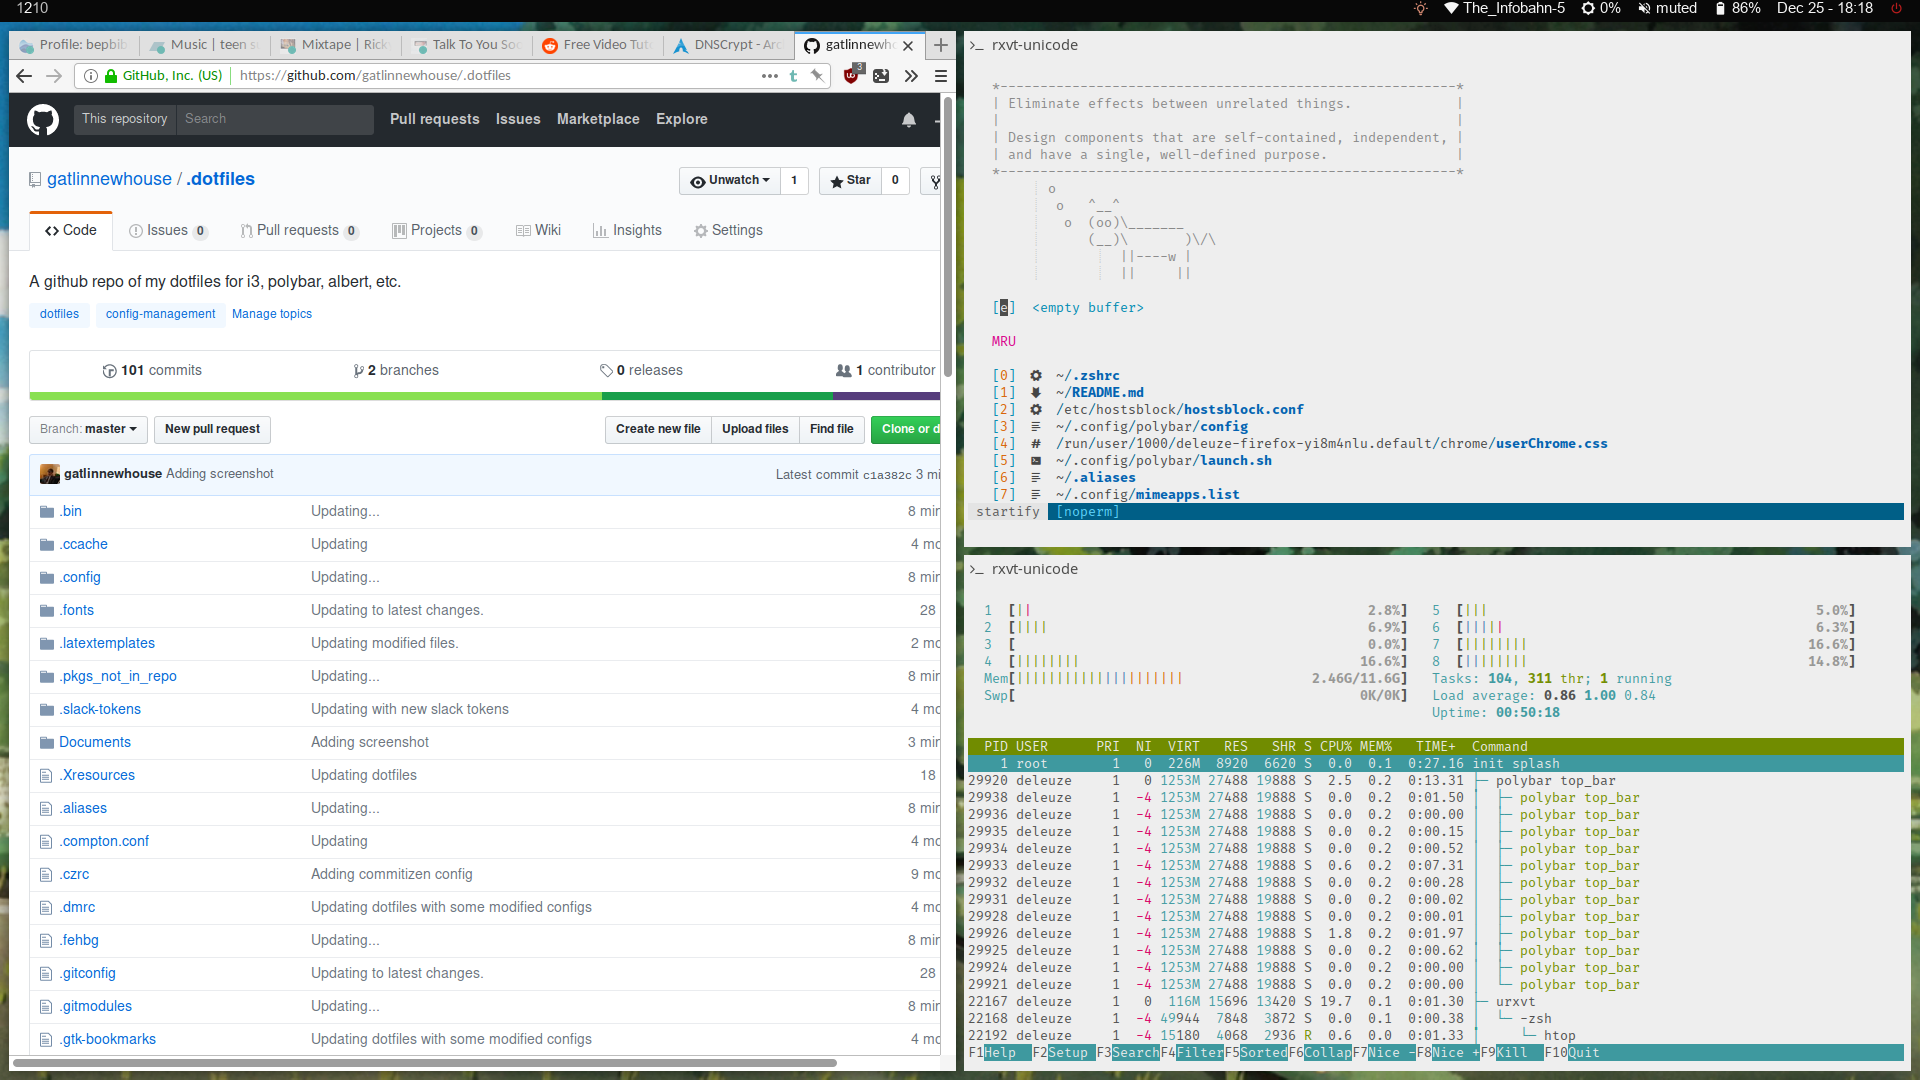
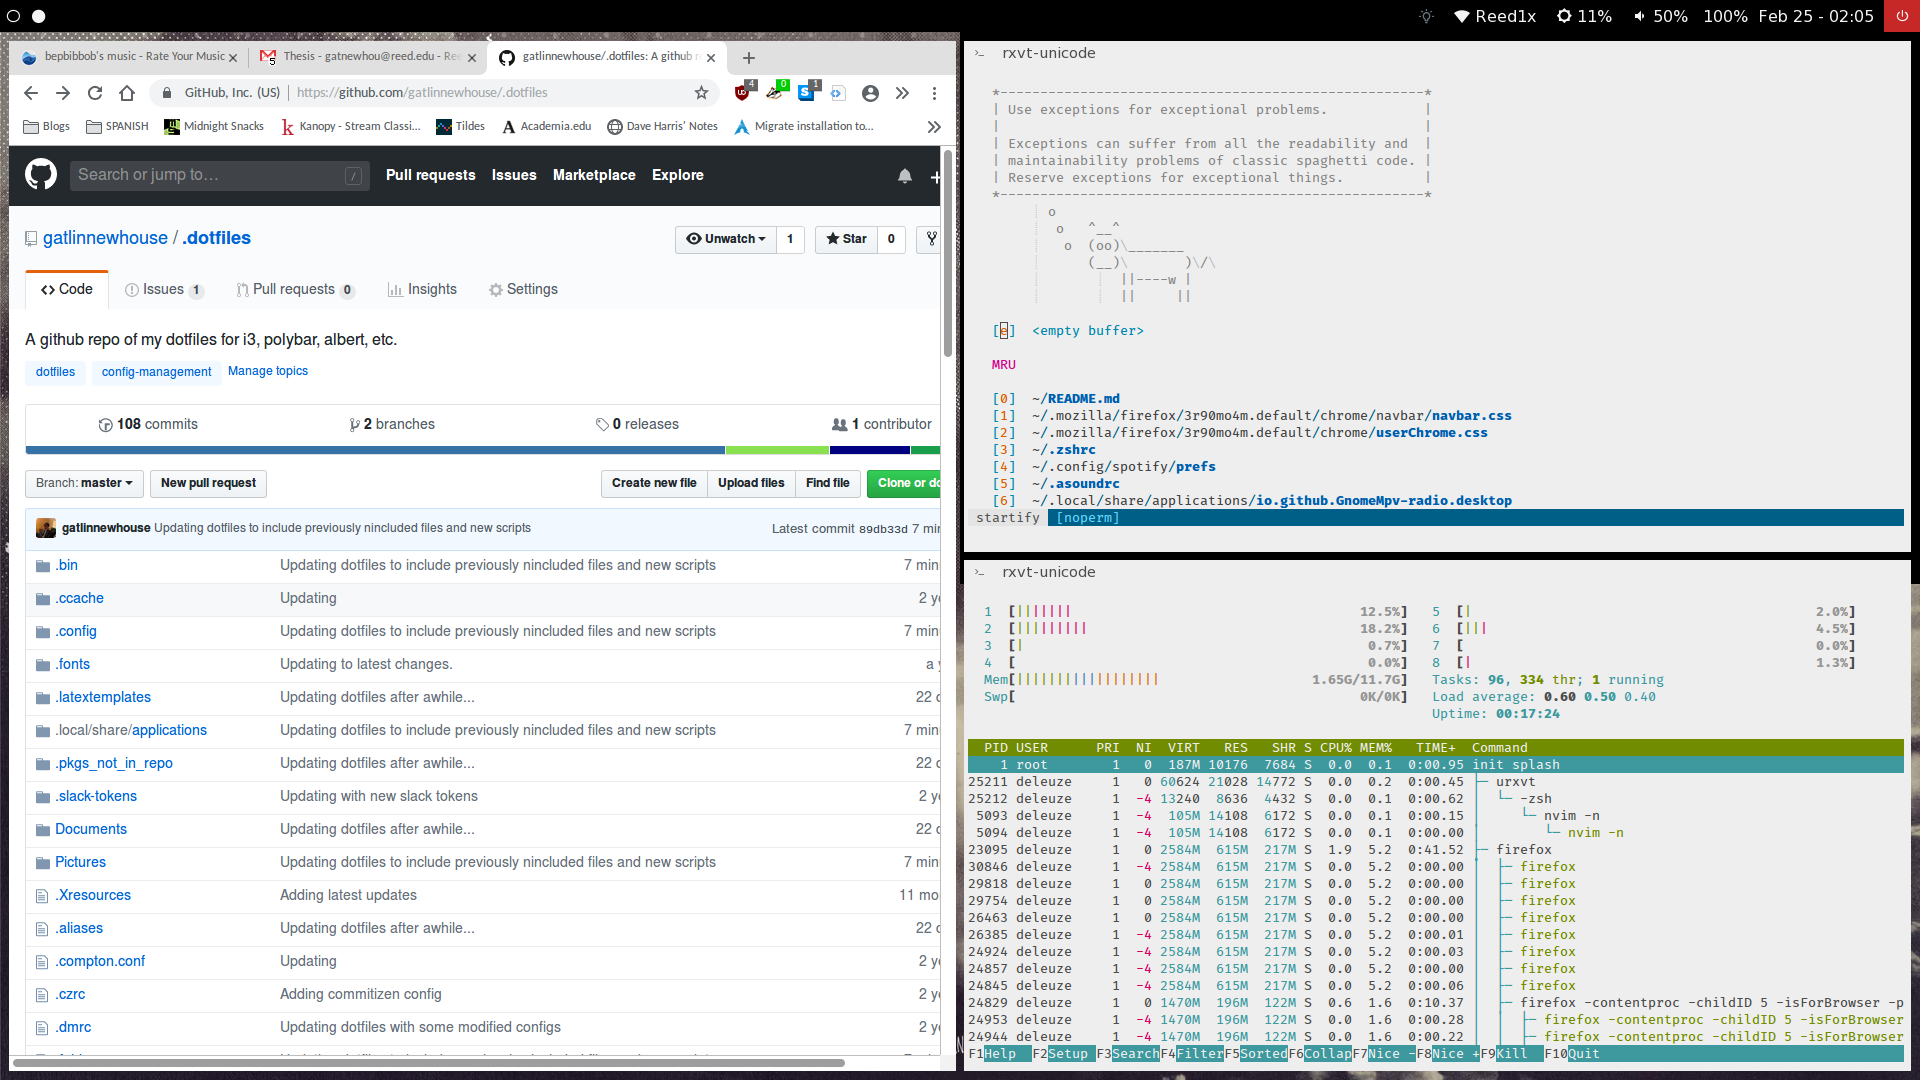
Updated readme and screenshots

Changed region(s): [[0.0, 0.0, 1.0, 1.0]]

diff --git a/README.md b/README.md
@@ -12,23 +12,23 @@ My `/etc/` folder is backed up via [`etckeeper`](https://wiki.archlinux.org/inde
 
 ## Setup
 
-* Application launcher: `albert`
+* Application launcher: `rofi`
 * Bar: `polybar`
 * Compositor: `compton`
 * Display Manager: `autologin and auto startx`
-* Icon Theme: [`Papirus`](https://github.com/PapirusDevelopmentTeam/papirus-icon-theme)
-* Lock: `i3lock`
+* Icon Theme: [`papirus-icon-theme`](https://github.com/PapirusDevelopmentTeam/papirus-icon-theme)
+* Lock: [`betterlockscreen`](https://github.com/pavanjadhaw/betterlockscreen)
 * Shell: `zsh` 
   * With [`zplugin`](https://github.com/zdharma/zplugin) for plugins and themes
 * Terminal emulator: `urvxt`, aka [`rxvt-unicode-cvx-patches-wideglyphs`](https://aur.archlinux.org/packages/rxvt-unicode-cvs-patched-wideglyphs/)
 * Text editor: [`neovim`](https://github.com/neovim/neovim) (it's not necessarily a gui for vim, just makes vim parallel and fixes the codebase of vim) 
   * With [`vim-plug`](https://github.com/junegunn/vim-plug) for plugins and themes
-* GTK Theme: [`Flat-Plat`](https://github.com/nana-4/Flat-Plat)
+* GTK Theme: [`materia-theme`](https://github.com/nana-4/Flat-Plat)
 * Video player: [`gnome-mpv`](https://github.com/gnome-mpv/gnome-mpv)
-* Web browser: [`waterfox`](https://www.waterfoxproject.org/)
+* Web browser: `firefox`
 * Window manager: [`i3-gaps`](https://github.com/Airblader/i3)
 
-### Recommended Waterfox extensions/themes
+### Recommended Firefox extensions/themes
 
 WIP
 
